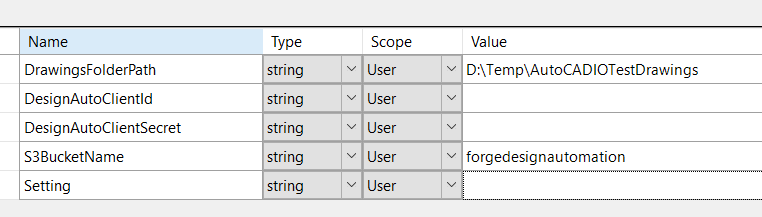
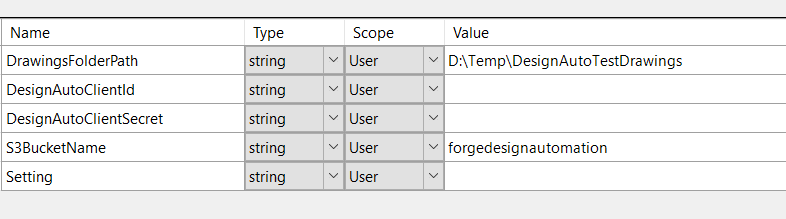
update folder name

Changed region(s): [[0.0, 0.0553, 1.0, 0.9401]]

diff --git a/Properties/Settings.Designer.cs b/Properties/Settings.Designer.cs
@@ -25,7 +25,7 @@ namespace AutoCADIODemo.Properties {
         
         [global::System.Configuration.UserScopedSettingAttribute()]
         [global::System.Diagnostics.DebuggerNonUserCodeAttribute()]
-        [global::System.Configuration.DefaultSettingValueAttribute("D:\\Temp\\AutoCADIOTestDrawings")]
+        [global::System.Configuration.DefaultSettingValueAttribute("D:\\Temp\\DesignAutoTestDrawings")]
         public string DrawingsFolderPath {
             get {
                 return ((string)(this["DrawingsFolderPath"]));
